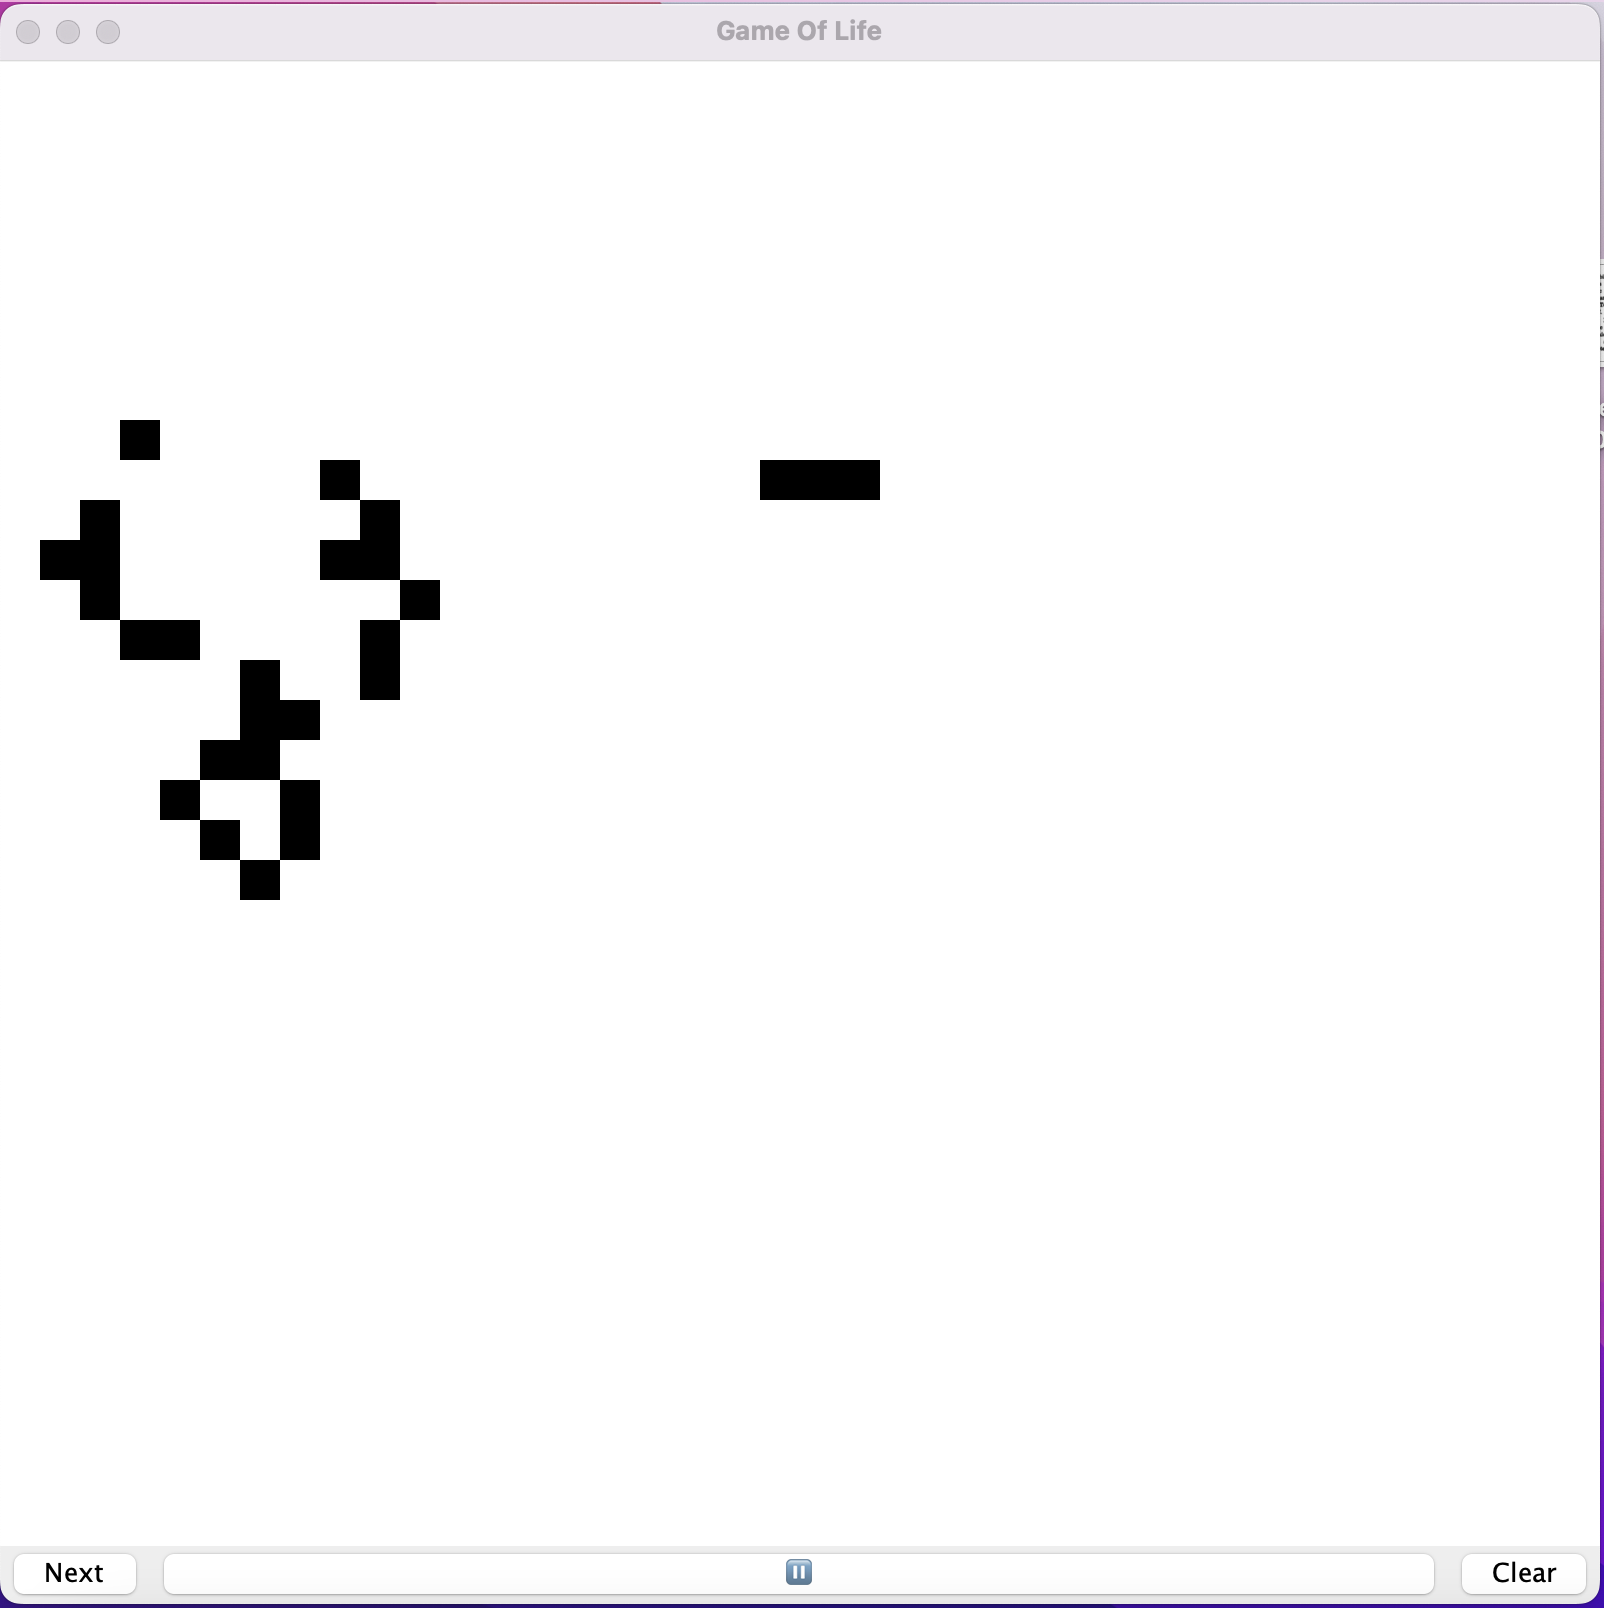
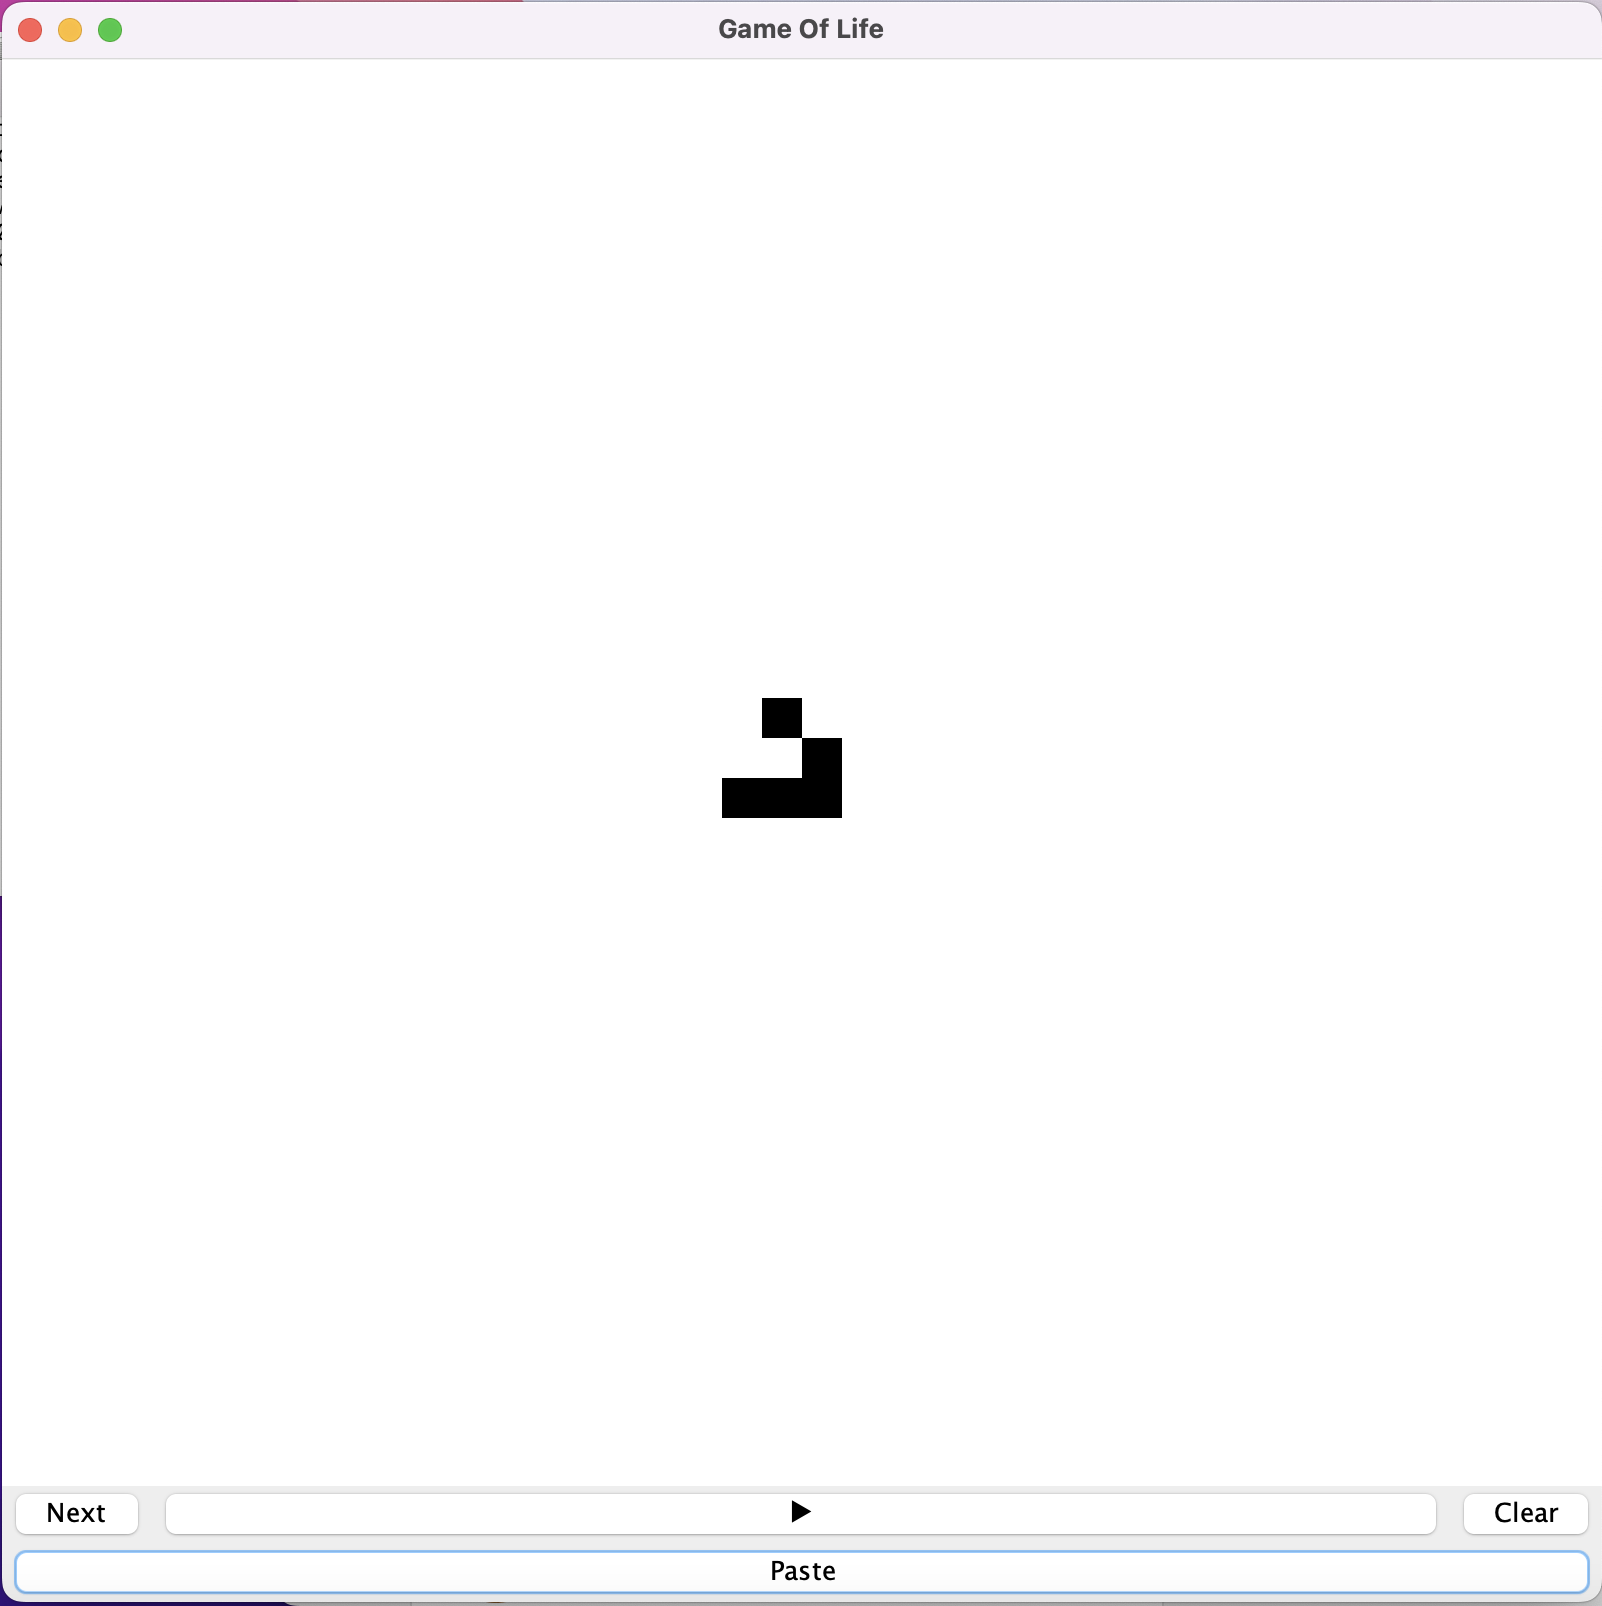
updating README

diff --git a/README.md b/README.md
@@ -4,5 +4,8 @@ Conway's Game of Life is a game where cells evolve according to its initial
 configuration. Players set up the initial state and watch how it evolves 
 according to the specific rules. [Wiki](https://en.wikipedia.org/wiki/Conway%27s_Game_of_Life)
 
+This game alows the player to paste either a file, url or plain text.
+The "paste" button will copy what is on the clipboard and decode it to the desired pattern
+
 
 ![GameOfLife](GameOfLife.png)
